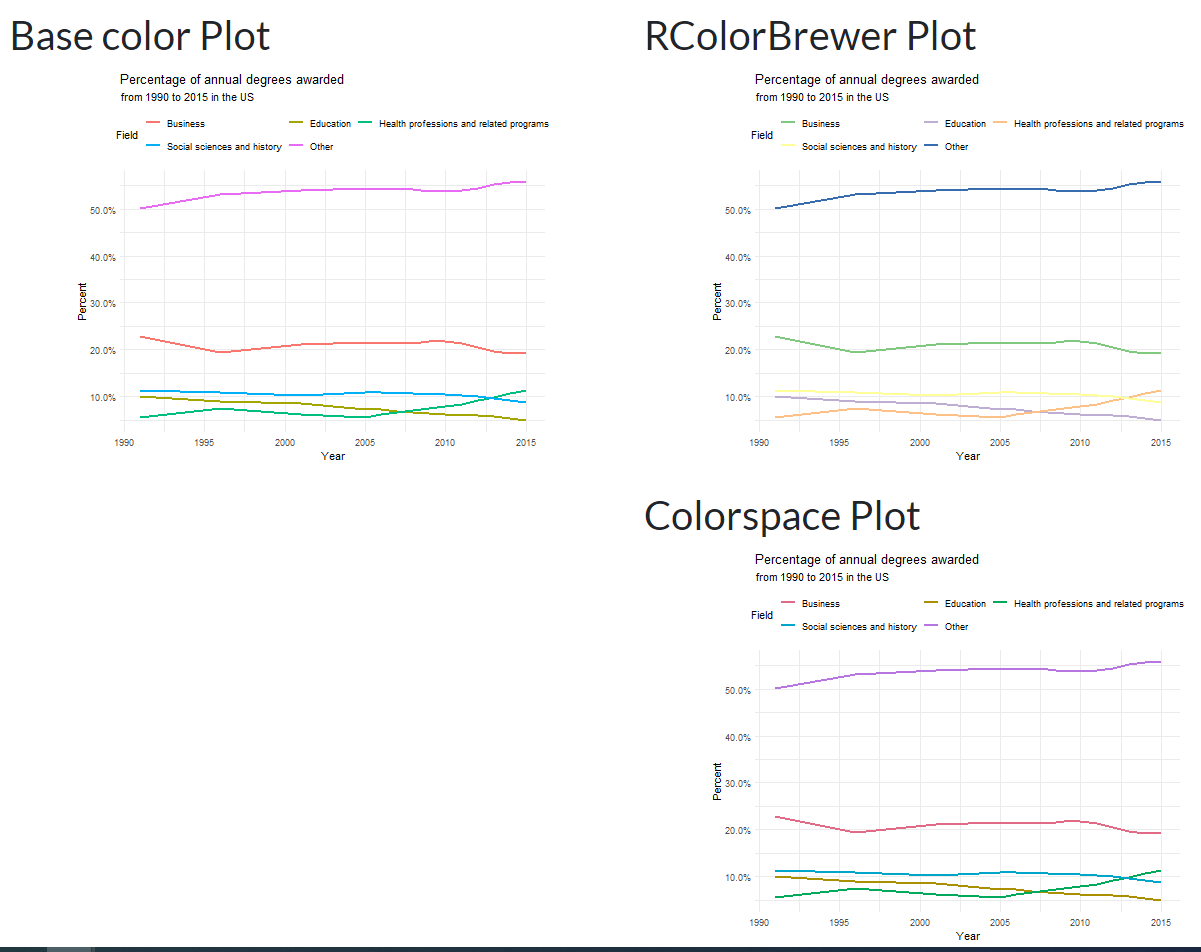
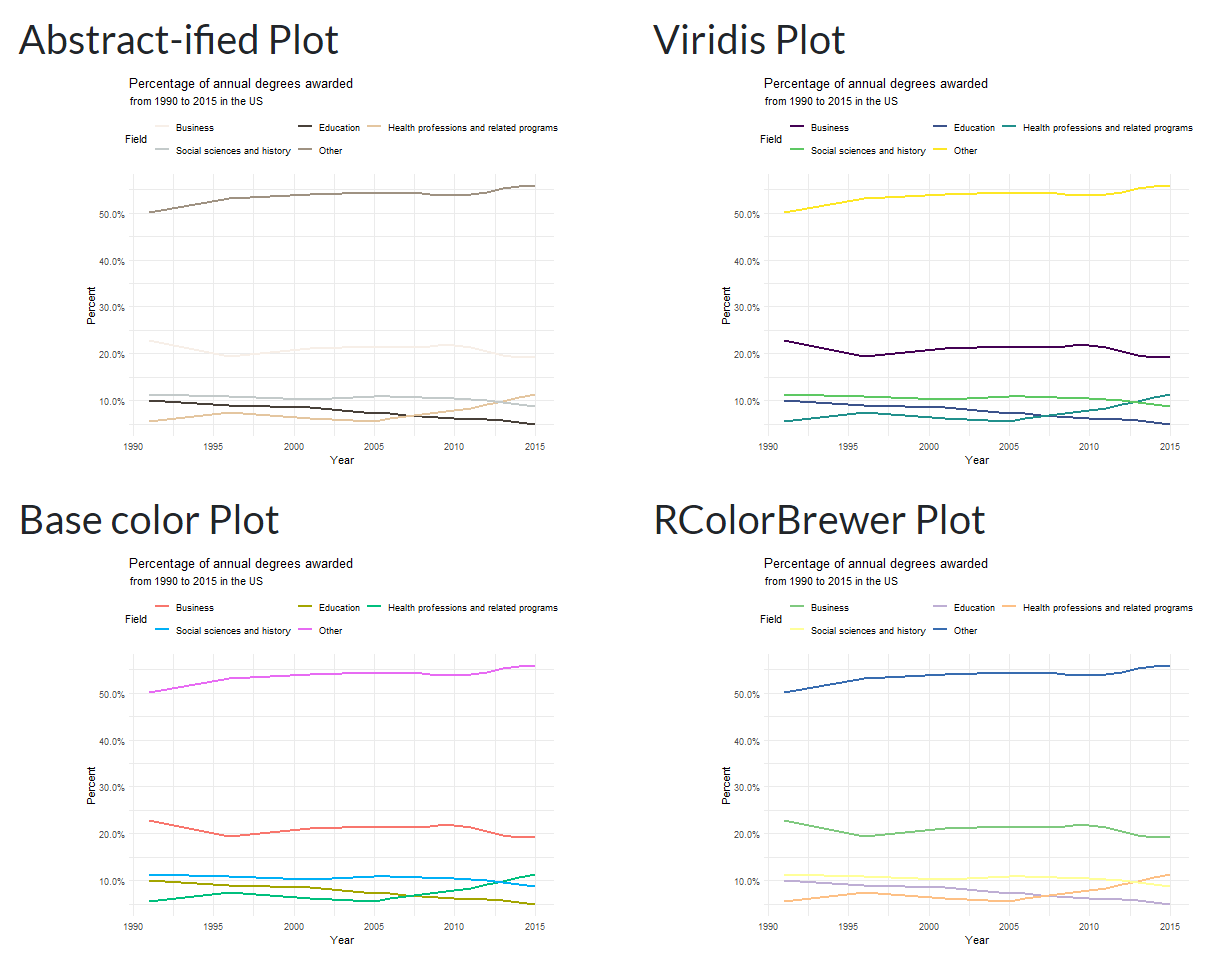
Writeup pic upgrades and small text changes

diff --git a/data/writeup_text.html b/data/writeup_text.html
@@ -25,7 +25,7 @@ In order to showcase our color palette, we use visualizations constructed from t
   Simplified Output
 </b> </h5>
 
-<img src = "simplified_output.PNG", alt = "none", style = "width:750px;height:350px">
+<img src = "simplified_output.PNG", alt = "none", style = "width:750px;height:250px">
 
 <p>
   Here, the image with clustered colors is shown with a download option.
@@ -34,7 +34,7 @@ In order to showcase our color palette, we use visualizations constructed from t
   Outline
 </b> </h5>
 
-<img src = "outline.PNG", alt = "none", style = "width:750px;height:350px">
+<img src = "outline.PNG", alt = "none", style = "width:750px;height:250px">
 
 <p>
   Here, the image’s abstract outline is shown.
@@ -52,8 +52,8 @@ In order to showcase our color palette, we use visualizations constructed from t
   Color Palette: Plotting
 </b> </h5>
 
-<img src = "color_palette_plotting_1.PNG", alt = "none", style = "width:750px;height:350px">
-<img src = "color_palette_plotting_2.PNG", alt = "none", style = "width:750px;height:350px">
+<img src = "color_palette_plotting_1.PNG", alt = "none", style = "width:750px;height:300px">
+<img src = "color_palette_plotting_2.PNG", alt = "none", style = "width:600px;height:500px">
 
 <p>
   Here, we show a set of five identical plots with color palettes from base <code>ggplot2</code>, common palette packages, and our own Abstract-ified custom palette. These five plots are reactive to the plot type buttons and adjust their source data and plot type to fit the needs of the chosen palette.
@@ -103,8 +103,8 @@ Paint-by-numbers was invented in the early 1950s and relied upon very abstract a
   Discussion
 </b> </h4>
 <p>
-  We were originally inspired to create our application by paint-by-numbers, but as the project developed we began to see the difficulty of creating image outlines that could actually be filled by a human - often, the drawn regions are so small and numerous that a number couldn’t even be displayed in all of them. We have identified three common features in an image that can produce poor simplifications and outlines: overall lack of contrast, fractal-like patterns, and blur effects. Low contrast reduces the effectiveness of our k-means fitting while fractal patterns such as tree branches produce unfillable templates. Blur effects naturally reduce the information available to our application while also weakening the color changes that trigger boundaries to be drawn.
-	Aside from specific patterns, our application is also severely limited by image size - processing time and RAM needs increase rapidly as the resolution of the user image rises. In order to cap runtimes to a reasonable level, we recommend using images that are less than 200KB.
-	The final limitation of our application is that it does not produce its outlines deterministically. Each time that one varies the number of distinct colors on a small image, the simple boundary function will return outlines with significant changes. On large images, however, the outlines are much more stable and tend to emphasize the same features in the original image.
+  We were originally inspired to create our application by paint-by-numbers, but as the project developed we began to see the difficulty of creating image outlines that could actually be filled by a human - often, the drawn regions are so small and numerous that a number couldn’t even be displayed in all of them. We have identified three common features or patterns in an image that can produce poor simplifications and outlines: overall lack of contrast, fractal-like patterns, and blur effects. Low contrast photos have color clusters that are closer together and thus harder for our k-means process to distinguish. Fractal patterns are processed normally, but tend to create snakey, unfillable outlines that would not be practical for a paint-by-numbers. Blur effects are very poorly handled by our approach - since blurring both destroys boundary information and widens the spectrum of colors, it causes poor performance in both our color simplification and outline functions.
+  <br>Aside from specific patterns, our application is also severely limited by image size - processing time and RAM needs increase rapidly as the resolution of the user image rises. In order to cap runtimes to a reasonable level, we recommend using images that are less than 200KB.
+	<br>The final limitation of our application is that it does not produce its outlines deterministically. Each time that one varies the number of distinct colors on a small image, the simple boundary function will return outlines with significant changes. On large images, however, the outlines are much more stable and tend to emphasize the same features in the original image.
 
 </p>
